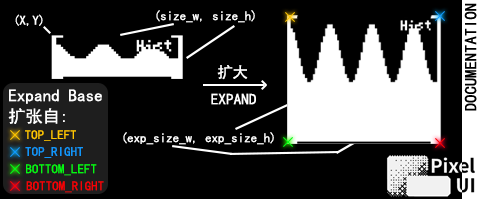
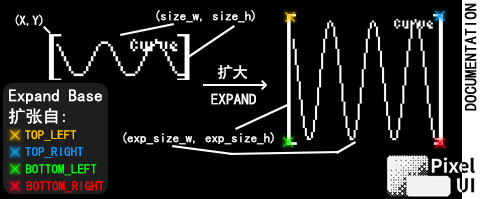
doc: added image for curvechart

Changed region(s): [[0.5925, 0.0603, 0.9356, 0.7236], [0.0936, 0.1508, 0.4054, 0.4221], [0.5925, 0.0603, 0.6237, 0.0905]]

diff --git a/examples/app_counter.cpp b/examples/app_counter.cpp
@@ -28,6 +28,7 @@
 #include <memory>
 #include <etl/stack.h>
 #include "widgets/histogram/histogram.h"
+#include "widgets/curve_chart/curve_chart.h"
 #include "widgets/brace/brace.h"
 #include "widgets/icon_button/icon_button.h"
 #include "focus/focus.h"
@@ -84,7 +85,7 @@ private:
     /** @brief Reference to the main UI context. */
     PixelUI& m_ui;
     /** @brief Widget for displaying historical data. */
-    Histogram histogram;
+    CurveChart histogram;
     /** @brief Widget for displaying a main, bracketed value. */
     Brace brace;
     /** @brief Manages focus and navigation between widgets. */

diff --git a/include/widgets/curve_chart/curve_chart.h b/include/widgets/curve_chart/curve_chart.h
@@ -19,13 +19,6 @@
 
 #include "../IWidget.h"
 
-enum class EXPAND_BASE {
-    TOP_LEFT,
-    TOP_RIGHT,
-    BOTTOM_LEFT,
-    BOTTOM_RIGHT
-};
-
 class CurveChart : public IWidget {
 public:
     CurveChart(PixelUI& ui, uint16_t pos_x, uint16_t pos_y, uint16_t size_w, uint16_t size_h, uint16_t size_w_exp, uint16_t size_h_exp, EXPAND_BASE base);

diff --git a/include/core/CommonTypes.h b/include/core/CommonTypes.h
@@ -29,6 +29,13 @@ enum class PopupType {
     CONFIRM
 };
 
+enum class EXPAND_BASE {
+    TOP_LEFT,
+    TOP_RIGHT,
+    BOTTOM_LEFT,
+    BOTTOM_RIGHT
+};
+
 enum class EasingType {
     LINEAR,
     EASE_IN_QUAD,

diff --git a/include/widgets/histogram/histogram.h b/include/widgets/histogram/histogram.h
@@ -19,13 +19,6 @@
 
 #include "../IWidget.h"
 
-enum class EXPAND_BASE {
-    TOP_LEFT,
-    TOP_RIGHT,
-    BOTTOM_LEFT,
-    BOTTOM_RIGHT
-};
-
 class Histogram : public IWidget {
 public:
     Histogram(
